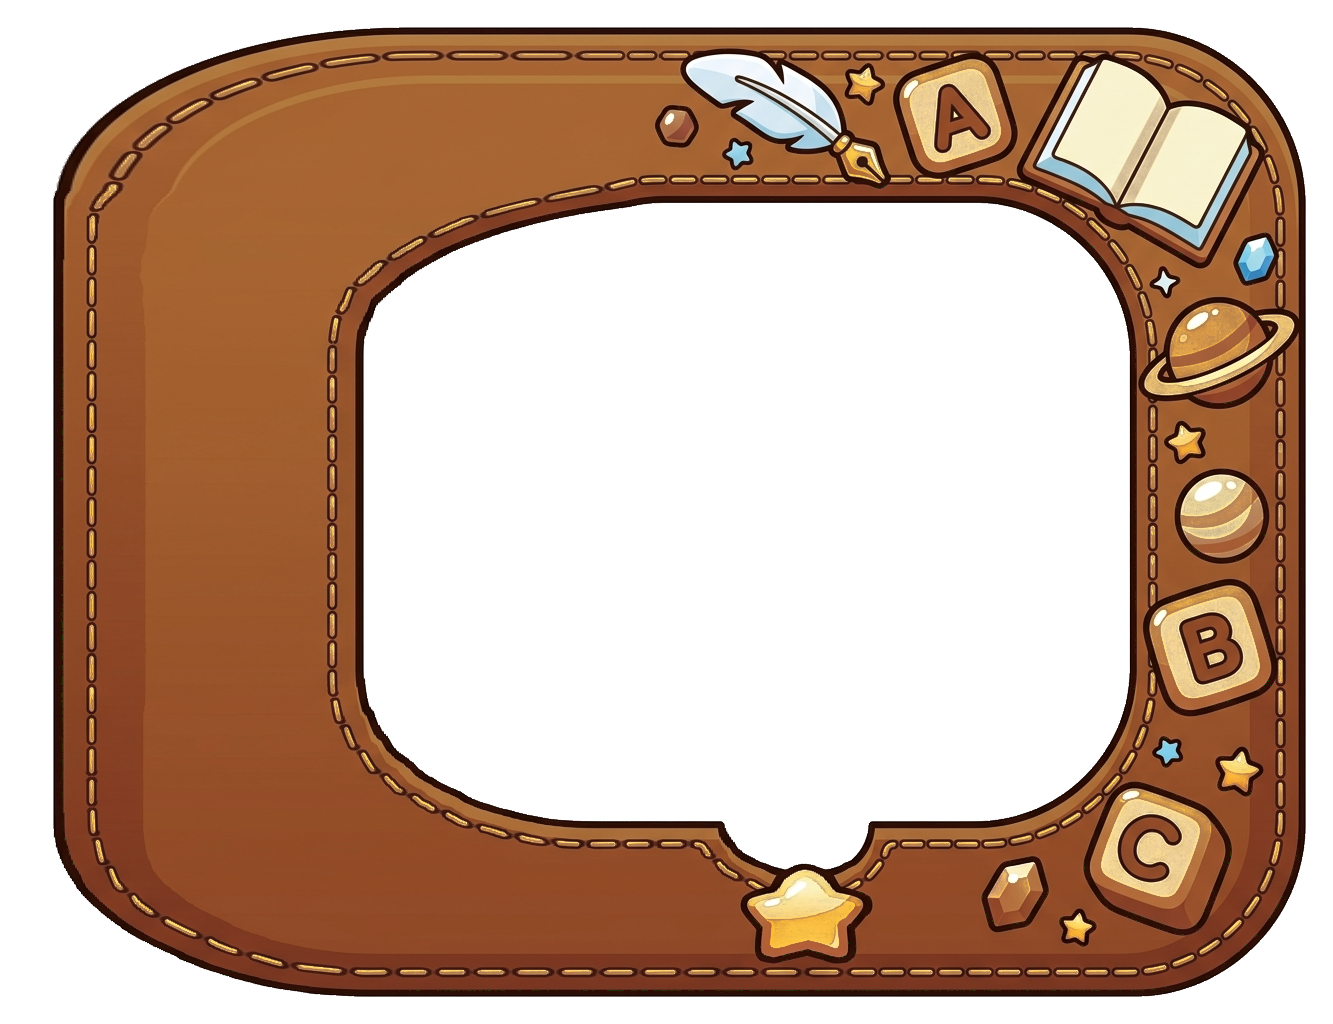
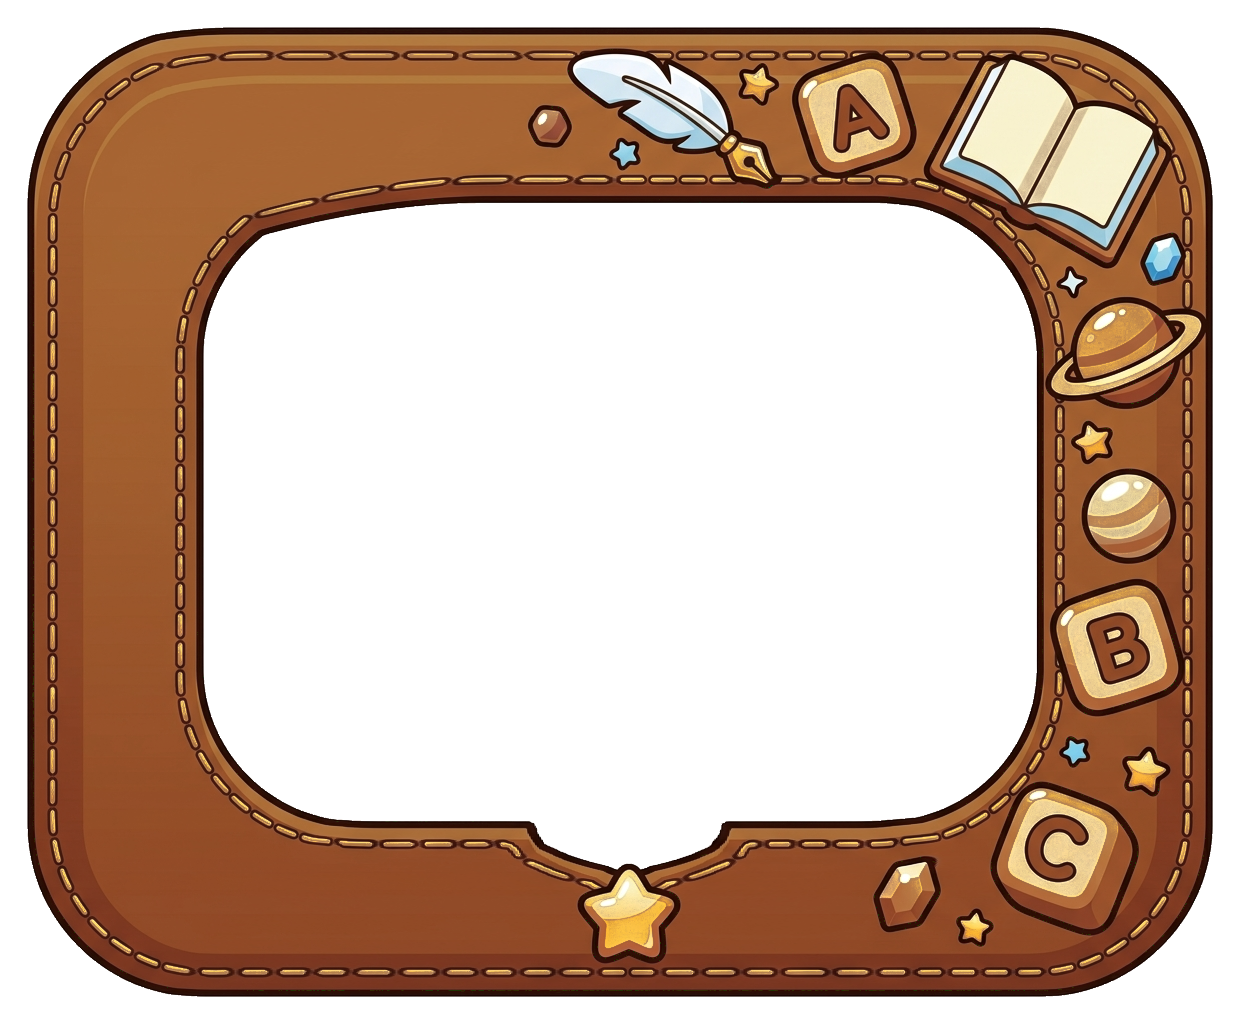
فريمُ الإنجليزيةِ المتوسّط (frame-en-m): نافذةٌ متوسّطةٌ بحزامَينِ متساويَين
- ملاحظةُ المالك ٢٠٢٦-٠٩-١٩: «الفريمُ غيرُ منظَّم» في أسئلةِ الذاكرةِ وغيرِها. المقاسُ m كانَ
  مشتقّاً من l بإدراجِ الأعمدةِ كلِّها في الحزامِ الأيسر، فصارَ الأيسرُ ٢٧٫٣٪ والأيمنُ ١٥٫٣٪
  والنافذةُ منزاحةٌ يميناً فيبدو المحتوى مائلاً داخلَ الإطار.
- أُعيدَ اشتقاقُه من l بالخياطةِ المحسوبةِ داخلَ الفتحةِ الشفّافةِ وحدَها (٢١٦ عموداً، 1024←1240)
  بحمايةِ الحزامَينِ والزخارفِ والهامشِ الخارجيّ — الطريقةُ نفسُها التي وُسِّعَ بها tall. الحزامانِ
  ١٦٫٥٪ لكلٍّ، ونسبةُ النافذةِ ١٫٣٥ (كانت ١٫١٩) بين l (١٫٠) وs (١٫٦٩) فسلّمُ الاختيارِ سليم.
- الإعداد: ar 1240/1024 وwin مقيسةٌ من ألفا؛ مقيسٌ حيّاً على g1e-1-3#٢: اليسارُ واليمينُ ١٦٫٥٪
  والتعبئةُ تبلغُ تجويفَ النجمة. الأصلُ محفوظٌ في originals/.

diff --git a/js/shoogp-ui.js b/js/shoogp-ui.js
@@ -341,9 +341,13 @@ var FRAME_FAMILIES={
      الجلدَ من الجانبَين. الإدراجُ بالخياطةِ المحسوبةِ داخلَ الفتحةِ الشفّافةِ وحدَها (الحزامانِ
      الجانبيانِ والزخارفُ والهامشُ الخارجيُّ محميّة)، فاتّسعت الفتحةُ من ٦٠٪ إلى ٦٥٪ من العرضِ
      والجلدُ على سماكتِه. الأصلُ في images/ui/originals/frame-en-tall.pre-widen.png. */
+  /* ⚠ m أُعيدَ اشتقاقُه من l (٢٠٢٦-٠٩-١٩) بملاحظةِ المالك «الفريمُ غيرُ منظَّم»: الاشتقاقُ الأوّلُ
+     أدرجَ الأعمدةَ كلَّها في الحزامِ الأيسرِ فصارَ ٢٧٫٣٪ مقابلَ ١٥٫٣٪ للأيمنِ والنافذةُ منزاحةٌ يميناً
+     فيبدو المحتوى مائلاً. الآن الإدراجُ (٢١٦ عموداً، 1024←1240) داخلَ الفتحةِ وحدَها بحمايةِ الحزامَينِ
+     والزخارفِ — فالحزامانِ متساويانِ والنافذةُ متوسّطة. الأصلُ في originals/frame-en-m.pre-recenter.png. */
   en:{ order:['s','m','l','tall'], flexBase:'l', sizes:{
     s:{img:'frame-en-s.png', ar:'1264 / 848',  win:{top:'20.2%', left:'16.3%', right:'15.9%', bottom:'20.0%'}, hasFill:false, fillDip:true},
-    m:{img:'frame-en-m.png', ar:'1333 / 1024', win:{top:'19.8%', left:'27.3%', right:'15.3%', bottom:'17.1%'}, hasFill:false, fillDip:true},
+    m:{img:'frame-en-m.png', ar:'1240 / 1024', win:{top:'19.8%', left:'16.5%', right:'16.5%', bottom:'19.8%'}, hasFill:false, fillDip:true},
     l:{img:'frame-en-l.png', ar:'1024 / 1024', win:{top:'19.8%', left:'19.9%', right:'19.9%', bottom:'19.8%'}, hasFill:false, fillDip:true},
     tall:{img:'frame-en-tall.png', ar:'1164 / 1705', win:{top:'11.9%', left:'17.5%', right:'17.5%', bottom:'11.8%'}, hasFill:false, fillDip:true}
   }}
